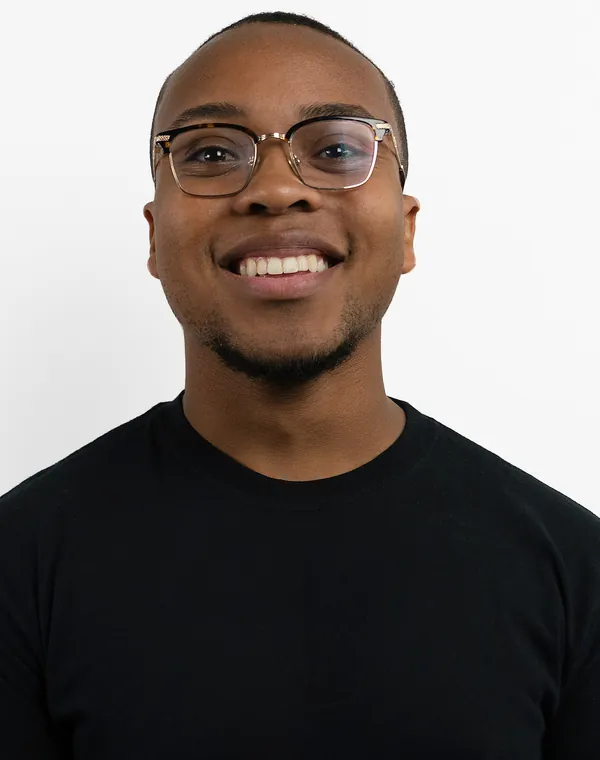
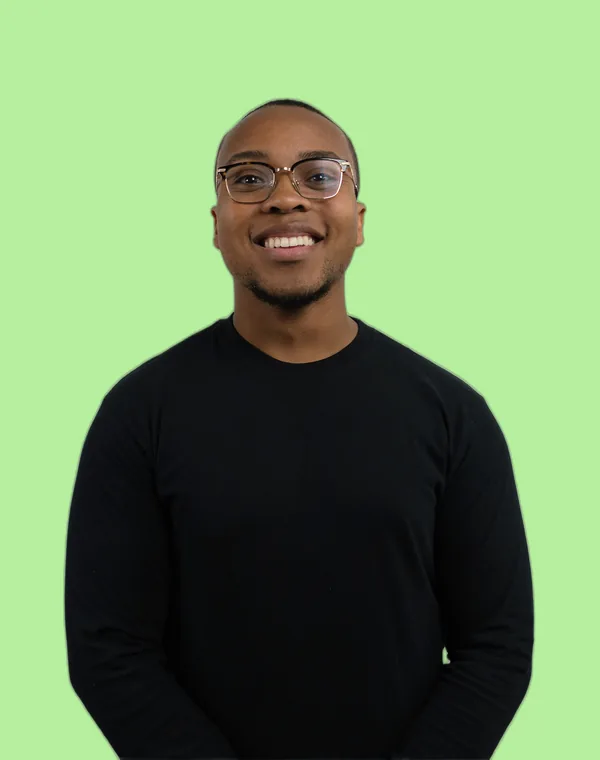
fix(hero, testimonials): ribbon curl over the card, cut-out portraits, longer rise
Three fidelity gaps against the original, all visible in a side-by-side:

- The green ribbon was a plain S-curve painting BEHIND the hero card, so it
  vanished at the card's top edge and reappeared below it. The original curls
  once just outside the card's top-left corner and then runs down across the
  photo. Adds the curl to the path and z-20 to the svg so it paints in front;
  it stays pointer-events-none.

- The hero card had rounded-tl-[72px]. The original's radius is uniform.

- The testimonial portraits filled the arch edge to edge, so the mint field and
  the arch silhouette were invisible. The original uses background-removed
  subjects standing on flat mint. Portraits are now cut out and composited onto
  --color-mint at 88% of the arch height, flush with its flat bottom.

Also lengthens the section reveal from 40px/0.8s to 64px/0.9s so the rise reads
as movement rather than a settle.

diff --git a/app/components/sections/HeroSection.vue b/app/components/sections/HeroSection.vue
@@ -108,11 +108,17 @@ const barStyle = computed(() => ({
   <section class="relative overflow-hidden bg-ink pt-[150px] pb-20 sm:pt-[190px] lg:pt-[243px] lg:pb-[140px]">
     <!-- decorative swoosh + leaves, purely ornamental -->
     <svg
-      class="pointer-events-none absolute -top-10 right-0 hidden h-[130%] w-[62%] text-accent lg:block"
+      class="pointer-events-none absolute -top-10 right-0 z-20 hidden h-[130%] w-[62%] text-accent lg:block"
       viewBox="0 0 600 900" fill="none" aria-hidden="true"
     >
+      <!--
+        The ribbon curls once just outside the card's top-left corner, then runs
+        down ACROSS the card and out to the bottom left. z-20 puts it above the
+        grid so it passes in FRONT of the photo the way the original does; as a
+        sibling earlier in the DOM it was painting behind and disappearing.
+      -->
       <path
-        d="M470 -40C470 160 300 150 250 250c-50 100 120 130 190 235 70 105-70 200-140 300-40 57-60 120-60 175"
+        d="M440 -60C442 40 420 95 380 130C330 172 250 140 218 175C185 212 205 262 250 252C292 243 300 195 265 178C232 162 220 230 235 300C252 380 268 450 250 540C232 630 175 700 140 790C118 848 105 875 100 940"
         stroke="currentColor" stroke-width="7" stroke-linecap="round"
       />
     </svg>
@@ -167,7 +173,7 @@ const barStyle = computed(() => ({
       </div>
 
       <div v-reveal="{ delay: 120 }" class="relative min-w-0">
-        <div class="relative overflow-hidden rounded-[28px] rounded-tl-[72px] shadow-2xl">
+        <div class="relative overflow-hidden rounded-[28px] shadow-2xl">
           <img
             src="/img/hero-still.webp"
             alt="A Staco team gathered around a laptop in an open-plan office"

diff --git a/app/assets/css/main.css b/app/assets/css/main.css
@@ -36,8 +36,8 @@ body { background: #fff; overflow-x: clip; }
    the tab bar, which keeps its own matchMedia logic. */
 .reveal {
   opacity: 0;
-  transform: translateY(40px);
-  transition: opacity .8s cubic-bezier(.22,.61,.36,1), transform .8s cubic-bezier(.22,.61,.36,1);
+  transform: translateY(64px);
+  transition: opacity .9s cubic-bezier(.22,.61,.36,1), transform .9s cubic-bezier(.22,.61,.36,1);
   will-change: opacity, transform;
 }
 .reveal.is-in { opacity: 1; transform: none; }
